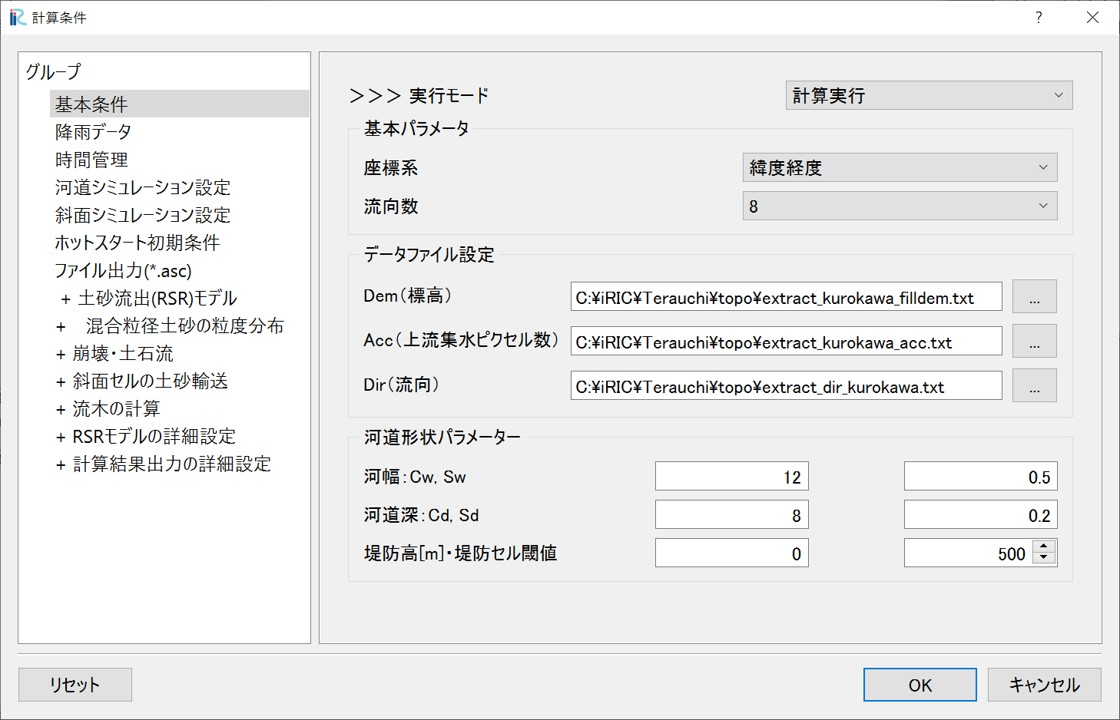
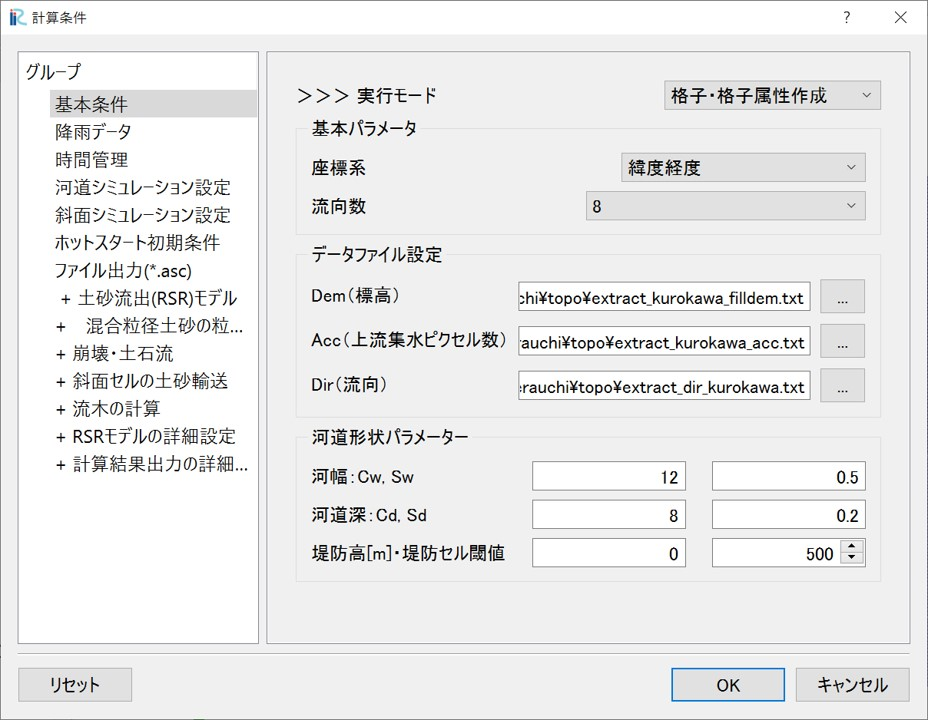
v18.9

diff --git a/source/03/example_3.rst b/source/03/example_3.rst
@@ -227,52 +227,53 @@ Example3：(RSRモデル) 2017年7月 黒川
        | beta：8
 
 
+
 -----
 
-４．計算実行
+４．計算実行(土砂の計算前)
 --------------------------------------------------
+土砂の計算を行う前に、水だけの計算を一旦実行して、計算条件が正しく設定されていることを確認しつつ、キャリブレーション等を行うことをお勧めします。
+本計算例では、寺内ダム流域の全体を対象として水流出のキャリブレーションを行ったパラメータを用いています。
+
+
 計算条件画面で、「基本条件」の実行モードを「計算実行」にします。
 「保存して閉じる」で、計算条件設定画面を閉じます。
 
-.. image:: img_1/cond_0.jpg
+.. image:: img_3/cond_0.jpg
         :width: 480px
         :align: center
 
 
 「計算＞実行」から計算を実行してください。
 計算実行前には必ず、データを保存してください。
-計算が開始されると以下の画面が表示されます。
-
-.. image:: img_1/calc_status.jpg
-        :width: 640px
-        :align: center
-
+一般的なデスクトップコンピュータで5-10分程度の計算時間を要します。
 計算が終了すると、終了を知らせる画面が表示されます。
 
 -----
 
-５．計算結果分析・可視化
+５．計算結果分析・可視化（土砂の計算前）
 --------------------------------------------------
 計算が正常に終了すると、可視化ウィンドウの表示が可能となります。
-RRI on iRICは以下の値を計算結果として出力しています。
+土砂の計算を行う前でも、以下の項目について確認できます。
 
-============== ========================================== ======
-表示名            意味                                      補足
-============== ========================================== ======
-total_qp_t[mm]  総雨量[mm]                                  1
-qp_t[mm/h]      雨量強度[mm/h]                              1
-hs[m]           氾濫原水深[m]                               1
-hr[m]           河道水深[m]                                 1 
-qr[m]           河道流量[m3/s]                              1
-qu              斜面流量x方向[m/s]                          1
-qv              斜面流量y方向[m/s]                          1
-hg[m]           地下水深[m]                                 1
-gu              地下流量x方向[m/s]                          1
-gv              地下流量y方向[m/s]                          1
-gampt_ff        Green-Ampt cumulative water depth [m]      1
-============== ========================================== ======
+================ ==========================================
+表示名            意味                                     
+================ ==========================================
+total_qp_t[mm]   総雨量[mm]                                  
+qp_t[mm/h]       雨量強度[mm/h]                              
+hs[m]            斜面（氾濫原）の水深（土層を含む）[m]                    
+Surface depth[m] 斜面の水深（土層を含まない表流水）[m] 
+hr[m]            河道水深[m]                                 
+qr[m]            河道流量[m3/s]                              
+qu               斜面流量x方向[m/s]                          
+qv               斜面流量y方向[m/s]                          
+hg[m]            地下水深[m]                                 
+gu               地下流量x方向[m/s]                          
+gv               地下流量y方向[m/s]                          
+gampt_ff         Green-Ampt cumulative water depth [m]      
+================ ==========================================
 
-iRICソフトウェアの基本機能を利用して、様々な角度から計算結果を確認することができます。
+iRICソフトウェアの基本機能を利用して、様々な観点から計算結果を確認することができます。
 以下に可視化例を表示します。
 
 流域総雨量：2016年8月29日 0:00UTCから2016年8月31日 22:00UTC（70時間）の間に500mm以上降った箇所が複数地点あることが確認できます
